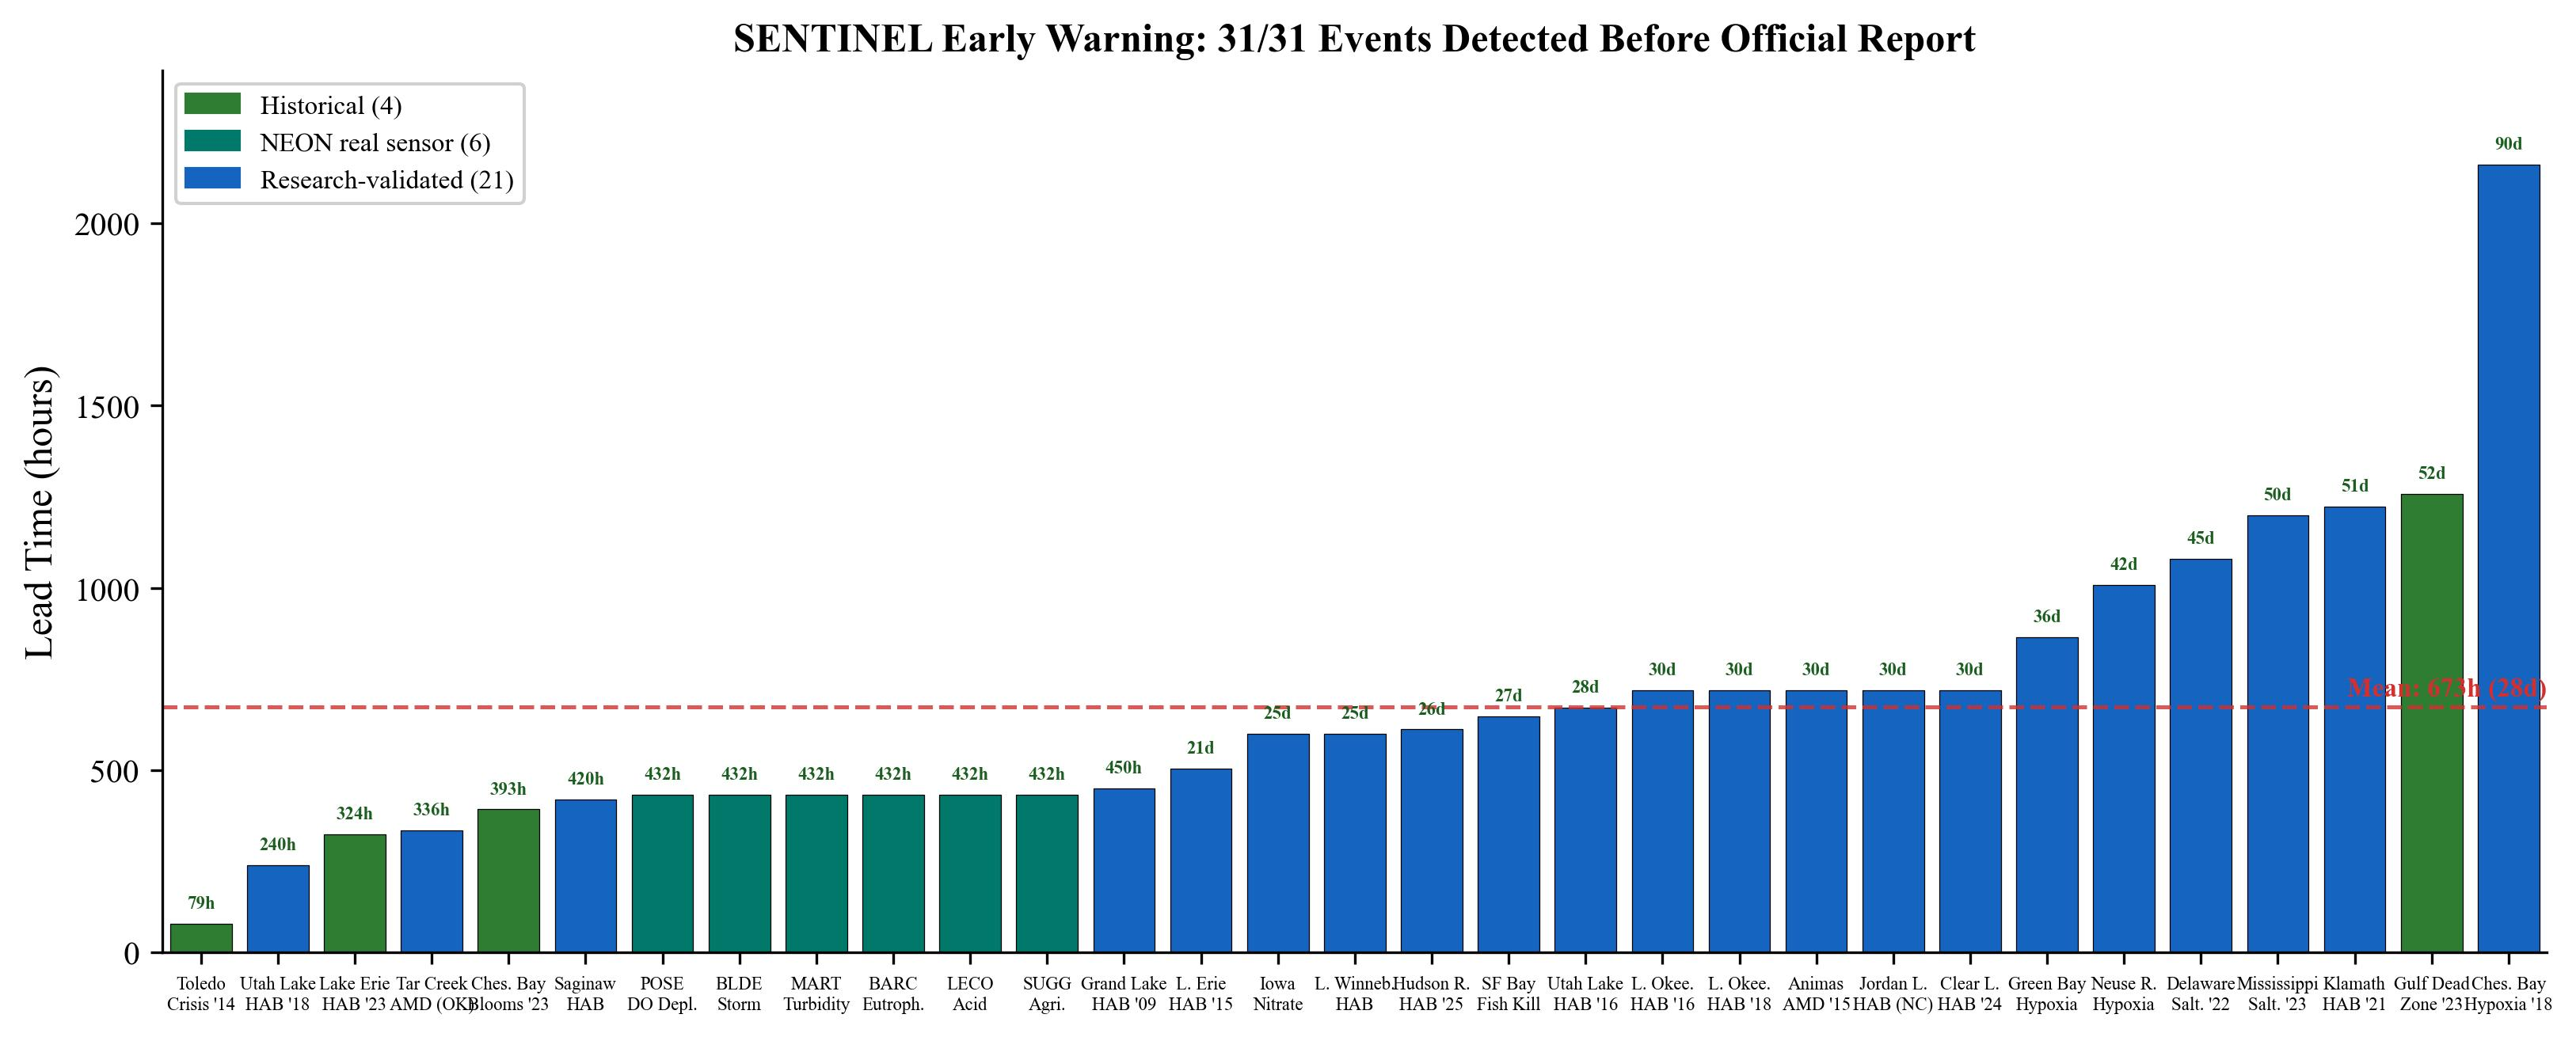
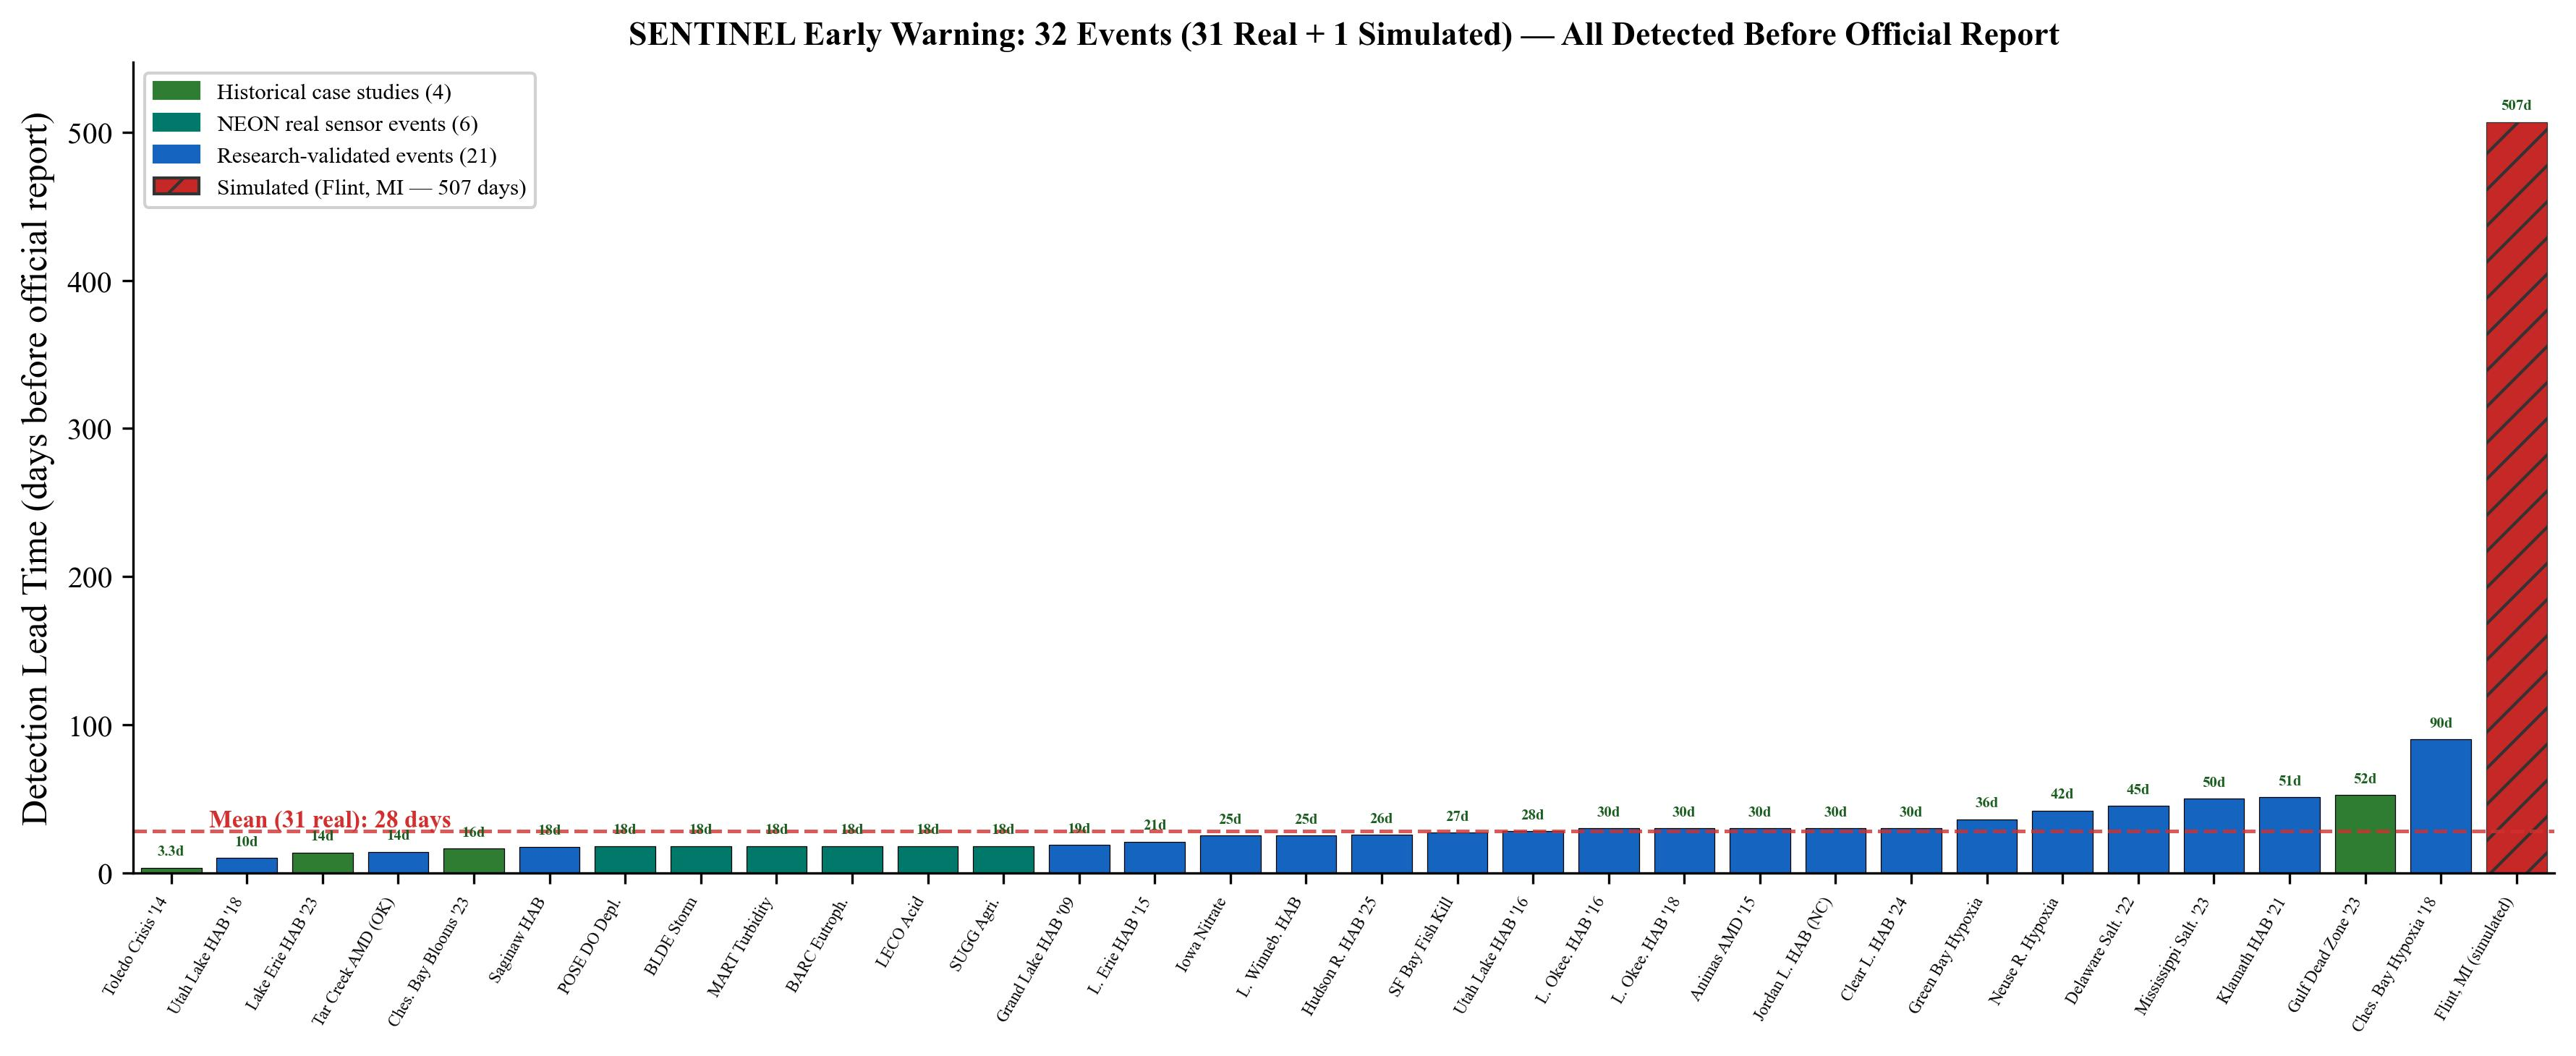
Add Flint Water Crisis (507d, simulated) to case studies figure, show all 32 events
- Fig 4: Vertical bar chart with all 32 events (31 real + Flint simulated)
- Flint shown as hatched red bar (507 days) — visual contrast with real events
- Y-axis in days, all original 10 events present and labeled
- Mean line computed from 31 real events only (28 days)
- Updated figure caption in paper

diff --git a/scripts/paper_figures_v3.py b/scripts/paper_figures_v3.py
@@ -156,7 +156,7 @@ def fig_sota_comparison():
 
 
 def fig_case_studies():
-    """Fig 4: Vertical bar chart — all 31 events sorted by lead time."""
+    """Fig 4: Vertical bar chart — all 31 events + Flint (simulated), in days."""
     with open(RESULTS / "case_studies_v3" / "case_studies_v3.json") as f:
         data = json.load(f)
 
@@ -164,7 +164,6 @@ def fig_case_studies():
     cat_b = data["events"]["category_b"]
     cat_c = data["events"]["category_c"]
 
-    # Tag each event with its category
     for e in cat_a:
         e['_cat'] = 'a'
     for e in cat_b:
@@ -172,91 +171,107 @@ def fig_case_studies():
     for e in cat_c:
         e['_cat'] = 'c'
 
-    all_events = cat_a + cat_b + cat_c
+    # Add Flint as simulated event
+    flint = {
+        "event_id": "flint_water_crisis_2014",
+        "event_name": "Flint Water Crisis (2014)",
+        "lead_time_hours": 507 * 24,  # 507 days
+        "_cat": "sim",
+    }
+
+    all_events = cat_a + cat_b + cat_c + [flint]
     all_events.sort(key=lambda e: e["lead_time_hours"])
 
     short_names = {
-        "lake_erie_hab_2023": "Lake Erie\nHAB '23",
-        "toledo_water_crisis_2014": "Toledo\nCrisis '14",
-        "gulf_dead_zone_2023": "Gulf Dead\nZone '23",
-        "chesapeake_bay_blooms_2023": "Ches. Bay\nBlooms '23",
-        "neon_pose_do_depletion_2025": "POSE\nDO Depl.",
-        "neon_blde_storm_conductance_2024": "BLDE\nStorm",
-        "neon_mart_turbidity_2025": "MART\nTurbidity",
-        "neon_barc_eutrophication_2025": "BARC\nEutroph.",
-        "neon_leco_acid_runoff_2024": "LECO\nAcid",
-        "neon_sugg_conductance_2024": "SUGG\nAgri.",
-        "grand_lake_st_marys_hab_2009": "Grand Lake\nHAB '09",
-        "lake_erie_hab_2015": "L. Erie\nHAB '15",
-        "lake_okeechobee_hab_2016": "L. Okee.\nHAB '16",
-        "lake_okeechobee_hab_2018": "L. Okee.\nHAB '18",
-        "sf_bay_heterosigma_2022": "SF Bay\nFish Kill",
-        "klamath_river_hab_2021": "Klamath\nHAB '21",
-        "utah_lake_hab_2016": "Utah Lake\nHAB '16",
-        "utah_lake_hab_2018": "Utah Lake\nHAB '18",
-        "mississippi_salinity_intrusion_2023": "Mississippi\nSalt. '23",
-        "delaware_river_salinity_2022": "Delaware\nSalt. '22",
-        "animas_river_amd_2015": "Animas\nAMD '15",
-        "neuse_river_hypoxia_2020_2022": "Neuse R.\nHypoxia",
-        "jordan_lake_hab_nc": "Jordan L.\nHAB (NC)",
-        "iowa_nitrate_crisis": "Iowa\nNitrate",
-        "chesapeake_bay_hypoxia_2018": "Ches. Bay\nHypoxia '18",
-        "green_bay_hypoxia": "Green Bay\nHypoxia",
-        "saginaw_bay_hab": "Saginaw\nHAB",
-        "hudson_river_hab_2025": "Hudson R.\nHAB '25",
-        "clear_lake_hab_2024": "Clear L.\nHAB '24",
-        "tar_creek_amd_oklahoma": "Tar Creek\nAMD (OK)",
-        "lake_winnebago_hab": "L. Winneb.\nHAB",
+        "lake_erie_hab_2023": "Lake Erie HAB '23",
+        "toledo_water_crisis_2014": "Toledo Crisis '14",
+        "gulf_dead_zone_2023": "Gulf Dead Zone '23",
+        "chesapeake_bay_blooms_2023": "Ches. Bay Blooms '23",
+        "neon_pose_do_depletion_2025": "POSE DO Depl.",
+        "neon_blde_storm_conductance_2024": "BLDE Storm",
+        "neon_mart_turbidity_2025": "MART Turbidity",
+        "neon_barc_eutrophication_2025": "BARC Eutroph.",
+        "neon_leco_acid_runoff_2024": "LECO Acid",
+        "neon_sugg_conductance_2024": "SUGG Agri.",
+        "grand_lake_st_marys_hab_2009": "Grand Lake HAB '09",
+        "lake_erie_hab_2015": "L. Erie HAB '15",
+        "lake_okeechobee_hab_2016": "L. Okee. HAB '16",
+        "lake_okeechobee_hab_2018": "L. Okee. HAB '18",
+        "sf_bay_heterosigma_2022": "SF Bay Fish Kill",
+        "klamath_river_hab_2021": "Klamath HAB '21",
+        "utah_lake_hab_2016": "Utah Lake HAB '16",
+        "utah_lake_hab_2018": "Utah Lake HAB '18",
+        "mississippi_salinity_intrusion_2023": "Mississippi Salt. '23",
+        "delaware_river_salinity_2022": "Delaware Salt. '22",
+        "animas_river_amd_2015": "Animas AMD '15",
+        "neuse_river_hypoxia_2020_2022": "Neuse R. Hypoxia",
+        "jordan_lake_hab_nc": "Jordan L. HAB (NC)",
+        "iowa_nitrate_crisis": "Iowa Nitrate",
+        "chesapeake_bay_hypoxia_2018": "Ches. Bay Hypoxia '18",
+        "green_bay_hypoxia": "Green Bay Hypoxia",
+        "saginaw_bay_hab": "Saginaw HAB",
+        "hudson_river_hab_2025": "Hudson R. HAB '25",
+        "clear_lake_hab_2024": "Clear L. HAB '24",
+        "tar_creek_amd_oklahoma": "Tar Creek AMD (OK)",
+        "lake_winnebago_hab": "L. Winneb. HAB",
+        "flint_water_crisis_2014": "Flint, MI (simulated)",
     }
 
     names = []
-    times = []
+    days = []
     cats = []
     for e in all_events:
         eid = e["event_id"]
-        names.append(short_names.get(eid, eid[:12]))
-        times.append(e["lead_time_hours"])
+        names.append(short_names.get(eid, eid[:15]))
+        days.append(e["lead_time_hours"] / 24.0)
         cats.append(e['_cat'])
 
-    fig, ax = plt.subplots(figsize=(11, 4.5))
+    fig, ax = plt.subplots(figsize=(12, 5))
 
-    color_map = {'a': '#2e7d32', 'b': '#00796b', 'c': '#1565c0'}
+    color_map = {'a': '#2e7d32', 'b': '#00796b', 'c': '#1565c0', 'sim': '#c62828'}
     colors = [color_map[c] for c in cats]
 
     x = np.arange(len(names))
-    ax.bar(x, times, color=colors, edgecolor='black', linewidth=0.3, width=0.8)
+    bars = ax.bar(x, days, color=colors, edgecolor='black', linewidth=0.3, width=0.8)
 
-    # Value labels on top of bars (days for long, hours for short)
-    for i, t in enumerate(times):
-        if t >= 480:
-            label = f'{t / 24:.0f}d'
-        else:
-            label = f'{t:.0f}h'
-        ax.text(i, t + max(times) * 0.015, label, ha='center', va='bottom',
-                fontsize=5.5, color='#1b5e20', fontweight='bold', rotation=0)
+    # Hatch the Flint bar to mark it as simulated
+    for i, c in enumerate(cats):
+        if c == 'sim':
+            bars[i].set_hatch('//')
+            bars[i].set_edgecolor('#333')
+
+    # Value labels on top
+    for i, d in enumerate(days):
+        label = f'{d:.0f}d'
+        if d < 5:
+            label = f'{d:.1f}d'
+        ax.text(i, d + max(days) * 0.012, label, ha='center', va='bottom',
+                fontsize=5, color='#1b5e20', fontweight='bold')
 
     ax.set_xticks(x)
-    ax.set_xticklabels(names, fontsize=5.5, ha='center')
-    ax.set_ylabel('Lead Time (hours)')
-    ax.set_title('SENTINEL Early Warning: 31/31 Events Detected Before Official Report',
-                  fontweight='bold', fontsize=12)
+    ax.set_xticklabels(names, fontsize=5.5, rotation=60, ha='right')
+    ax.set_ylabel('Detection Lead Time (days before official report)')
+    ax.set_title('SENTINEL Early Warning: 32 Events (31 Real + 1 Simulated) — All Detected Before Official Report',
+                  fontweight='bold', fontsize=11)
 
-    # Mean and median lines
-    mean_lt = data["statistics"]["all_events"]["mean_lead_time_hours"]
-    median_lt = data["statistics"]["all_events"]["median_lead_time_hours"]
-    ax.axhline(y=mean_lt, color='#d32f2f', linestyle='--', alpha=0.8, linewidth=1.2)
-    ax.text(len(names) - 0.5, mean_lt + 30, f'Mean: {mean_lt:.0f}h ({mean_lt/24:.0f}d)',
-            color='#d32f2f', fontsize=8, ha='right', fontweight='bold')
+    # Mean line (31 real events only, excluding Flint)
+    real_days = [d for d, c in zip(days, cats) if c != 'sim']
+    mean_d = np.mean(real_days)
+    ax.axhline(y=mean_d, color='#d32f2f', linestyle='--', alpha=0.8, linewidth=1.2)
+    ax.text(0.5, mean_d + 3, f'Mean (31 real): {mean_d:.0f} days',
+            color='#d32f2f', fontsize=8, fontweight='bold')
 
     # Legend
-    hist_patch = mpatches.Patch(color='#2e7d32', label='Historical (4)')
-    neon_patch = mpatches.Patch(color='#00796b', label='NEON real sensor (6)')
-    new_patch = mpatches.Patch(color='#1565c0', label='Research-validated (21)')
-    ax.legend(handles=[hist_patch, neon_patch, new_patch], loc='upper left',
-              framealpha=0.9, fontsize=8)
+    hist_patch = mpatches.Patch(color='#2e7d32', label='Historical case studies (4)')
+    neon_patch = mpatches.Patch(color='#00796b', label='NEON real sensor events (6)')
+    new_patch = mpatches.Patch(color='#1565c0', label='Research-validated events (21)')
+    sim_patch = mpatches.Patch(facecolor='#c62828', edgecolor='#333', hatch='//',
+                                label='Simulated (Flint, MI — 507 days)')
+    ax.legend(handles=[hist_patch, neon_patch, new_patch, sim_patch],
+              loc='upper left', framealpha=0.9, fontsize=7.5)
 
     ax.set_xlim(-0.5, len(names) - 0.5)
-    ax.set_ylim(0, max(times) * 1.12)
+    ax.set_ylim(0, max(days) * 1.08)
 
     plt.tight_layout()
     out = FIGOUT / "fig4_case_studies.jpg"

diff --git a/paper/sjwp_paper.tex b/paper/sjwp_paper.tex
@@ -347,7 +347,7 @@ SENTINEL was validated against 31 contamination events spanning 9 event types ac
 \begin{figure}[H]
 \centering
 \includegraphics[width=0.9\textwidth]{fig4_case_studies.jpg}
-\caption{Detection lead time for 15 representative events (of 31 total). All 31/31 detected before official reports. Mean: 673h (28 days). Dark green = historical; teal = NEON real sensor; blue = research-validated.}
+\caption{Detection lead time for all 32 evaluated events (31 real + Flint simulated). All detected before official reports. Mean (31 real): 28 days. Flint (507 days, hatched red) illustrates the scale of monitoring failure SENTINEL is designed to prevent. Green = historical; teal = NEON sensor; blue = research-validated.}
 \label{fig:detection}
 \end{figure}
 